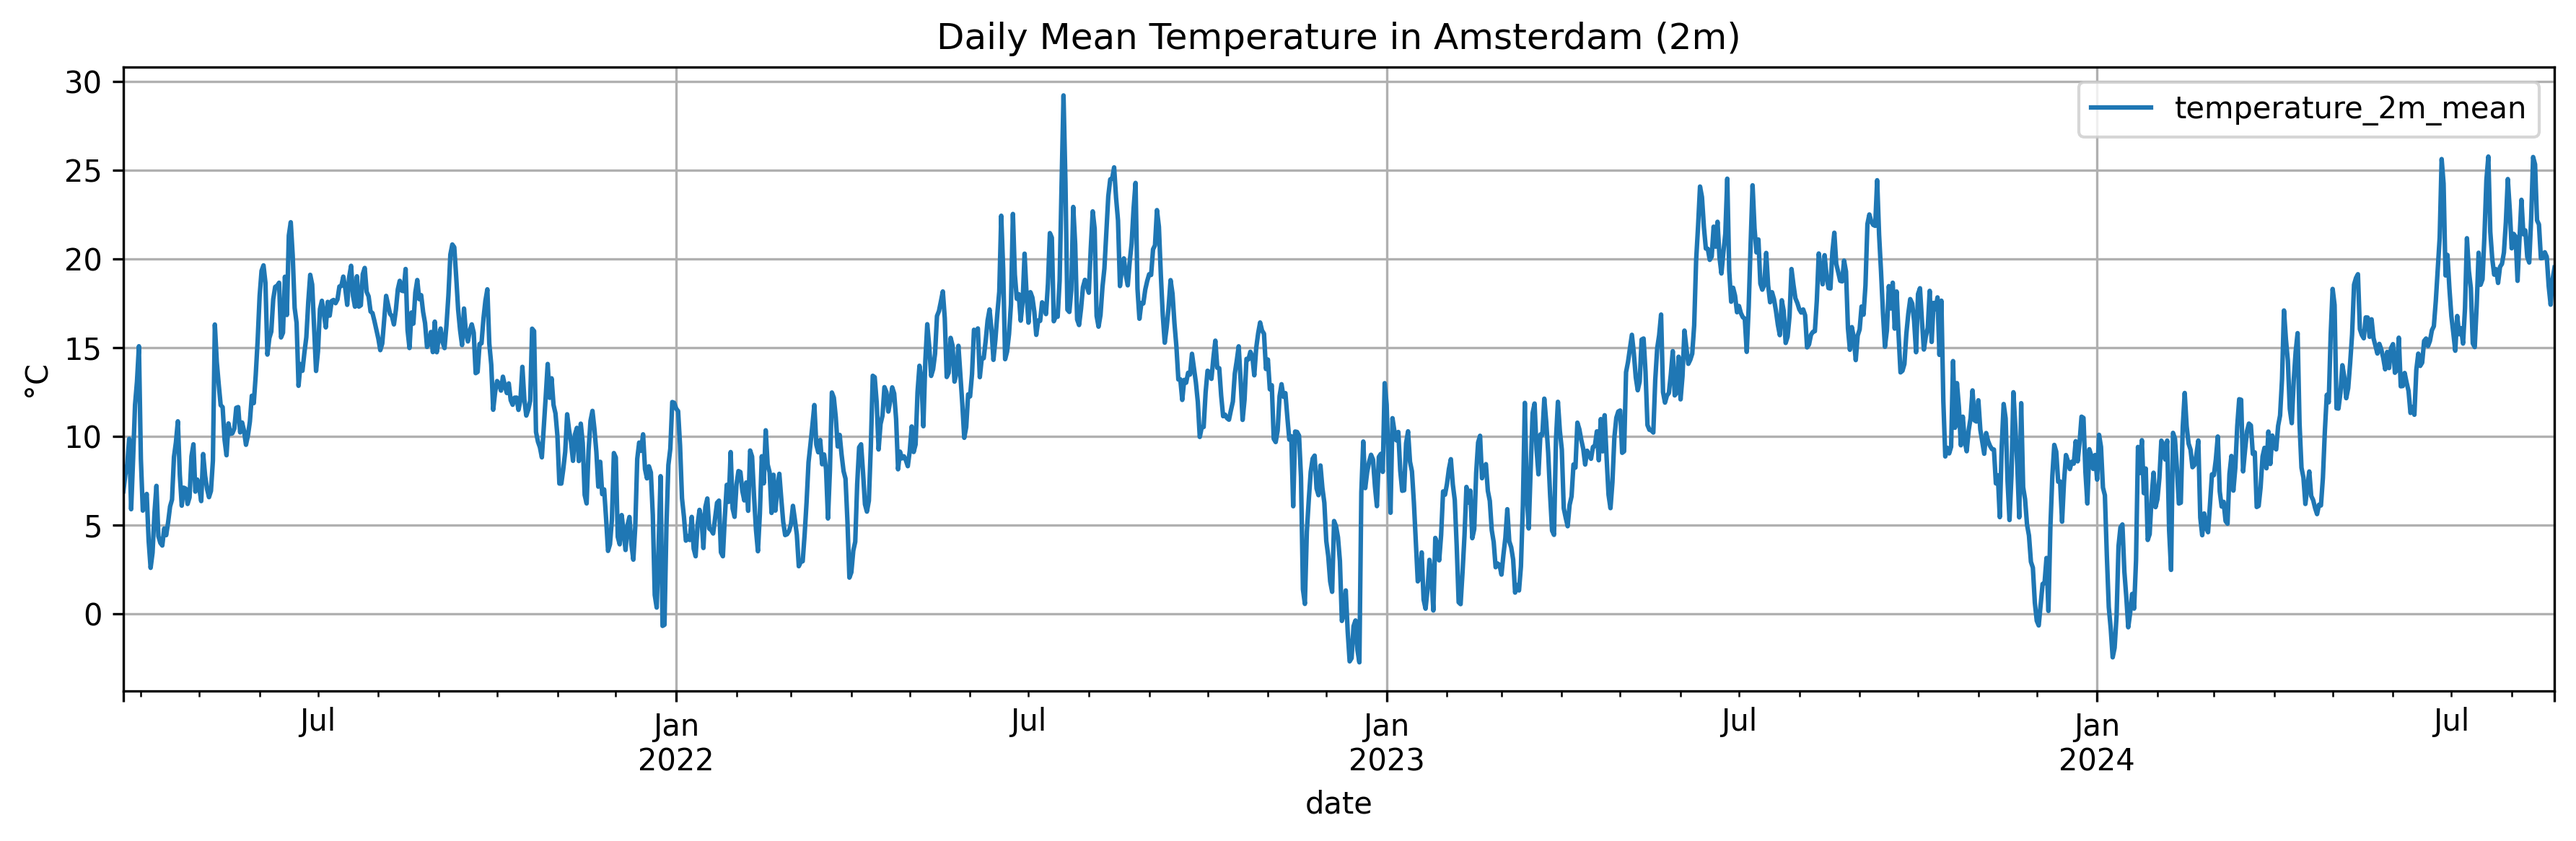
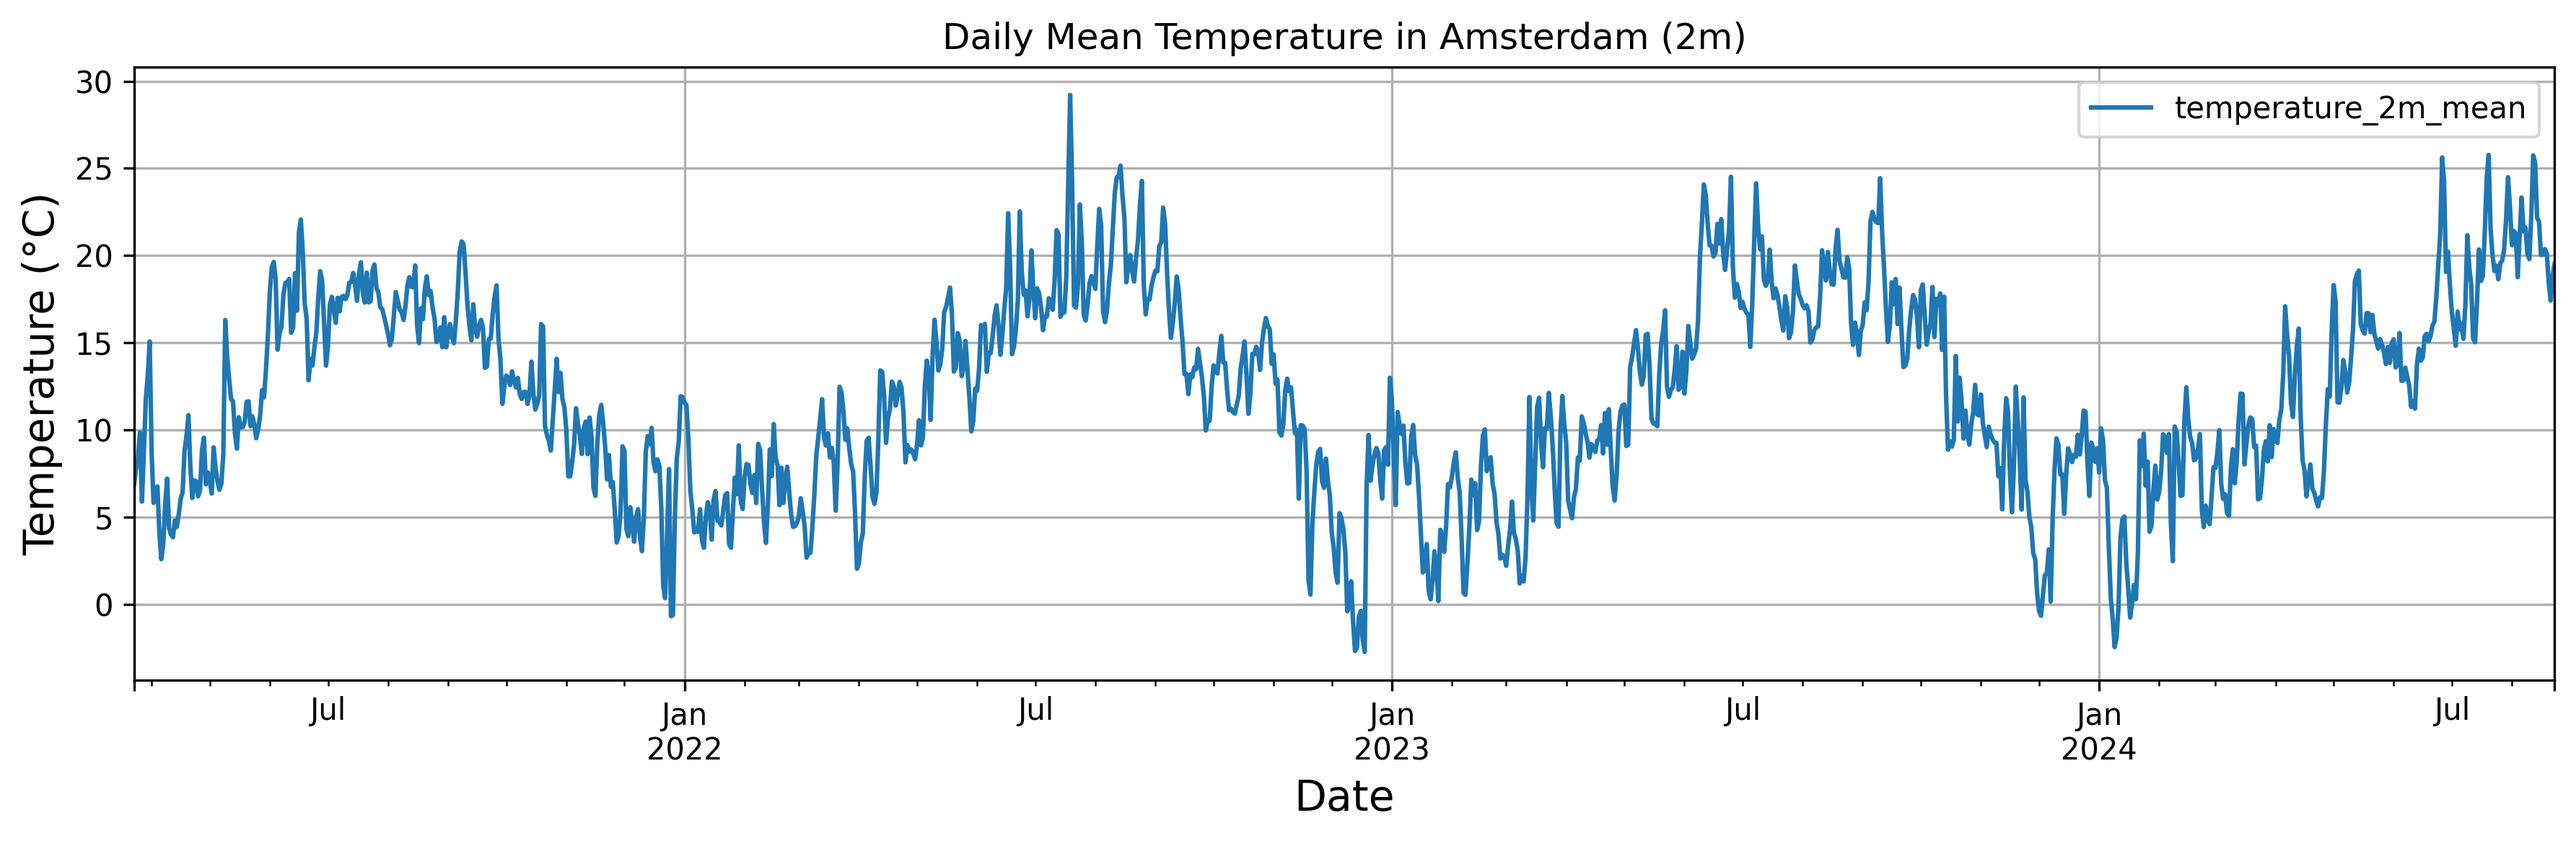
add task 3 figs

diff --git a/assignment2/task3/P4_calculate_sigma_and_simulate_temp.py b/assignment2/task3/P4_calculate_sigma_and_simulate_temp.py
@@ -50,6 +50,54 @@ init_params = [1, 0] + [0.1]*(2*I)
 assert not np.isnan(y_data_clean).any(), "y_data contains NaNs"
 # 拟合 Fourier 模型
 params, _ = curve_fit(sigma_model, t_data_clean, y_data_clean, p0=init_params)
+print("=== sigma^2(t) 模型参数 ===")
+print("V:", params[0])
+print("U:", params[1])
+print("Fourier coefficients (sin):", params[2:2+I])
+print("Fourier coefficients (cos):", params[2+I:2+2*I])
+
+# ======step 2: 可视化 sigma^2(t) ======
+plt.figure(figsize=(12, 4))
+plt.plot(t_data, np.abs(residual_e), label='|$e_t$| (AR(1) Residuals)', alpha=0.4)
+plt.plot(t_data, sigma_data, label='Smoothed $\sigma(t)$ (15-day MA)', linewidth=2)
+plt.xlabel("Time Index", fontsize=14)
+plt.ylabel("Magnitude", fontsize=14)
+plt.title("Smoothed Estimation of $\sigma(t)$ from AR(1) Residuals", fontsize=16)
+plt.legend()
+plt.grid(True)
+plt.tight_layout()
+plt.savefig("figs/sigma_smoothing.png", dpi=300, bbox_inches="tight")
+plt.show()
+plt.close()
+
+# 预测 sigma_model 拟合值
+sigma_fitted = sigma_model(t_data_clean, *params)
+
+plt.figure(figsize=(12, 4))
+plt.plot(t_data_clean, y_data_clean, label='Smoothed $\sigma(t)$ (Data)', color='blue')
+plt.plot(t_data_clean, sigma_fitted, label='Fitted $\sigma(t)$ (Fourier)', color='red', linestyle='--')
+plt.xlabel("Time Index", fontsize=14)
+plt.ylabel("Volatility", fontsize=14)
+plt.title("Fourier Fit of $\sigma(t)$", fontsize=16)
+plt.legend()
+plt.grid(True)
+plt.tight_layout()
+plt.savefig("figs/sigma_fitted.png", dpi=300, bbox_inches="tight")
+plt.show()
+plt.close()
+
+plt.figure(figsize=(12, 4))
+plt.plot(t_data, e2_series, label='$e_t^2$', alpha=0.4)
+plt.plot(t_data, sigma_data**2, label='Rolling Estimate of $\sigma^2(t)$', linewidth=2)
+plt.xlabel("Time Index")
+plt.ylabel("Variance")
+plt.title("Raw $e_t^2$ vs Smoothed $\sigma^2(t)$")
+plt.legend()
+plt.grid(True)
+plt.tight_layout()
+plt.savefig("figs/sigma_squared_estimation.png", dpi=300, bbox_inches="tight")
+plt.show()
+plt.close()
 
 # 生成解析函数
 def sigma(t):
@@ -100,21 +148,23 @@ simulated_df_paths.to_csv('amsterdam_daily_temperature_simulated_paths.csv')
 plt.figure(figsize=(12, 6))
 for i in range(n_paths):
     plt.plot(daily_df.index, T_paths[i], lw=0.7, alpha=0.6)
-plt.title("Simulated Temperature Paths (Monte Carlo)")
-plt.xlabel("Date")
-plt.ylabel("Temperature (°C)")
+plt.title("Simulated Temperature Paths (Monte Carlo)", fontsize=16)
+plt.xlabel("Date", fontsize=14)
+plt.ylabel("Temperature (°C)", fontsize=14)
 plt.grid(True)
 plt.tight_layout()
+plt.savefig("figs/simulated_temperature_paths.png", dpi=300, bbox_inches="tight")
 plt.show()
 plt.close()
 
-# ===== 对比实际和模拟路径 =====
-plt.figure(figsize=(12, 4))
-plt.plot(daily_df.index, daily_df['temperature_2m_mean'], label='Observed Temp', alpha=0.5)
-plt.plot(simulated_df.index, simulated_df['T_sim'], label='Simulated Temp', linestyle='--')
-plt.title('Simulated Temperature Path')
-plt.xlabel('Date')
-plt.ylabel('Temperature (°C)')
-plt.legend()
-plt.grid(True)
-plt.show()
+# # ===== 对比实际和模拟路径 =====
+# plt.figure(figsize=(12, 4))
+# plt.plot(daily_df.index, daily_df['temperature_2m_mean'], label='Observed Temp', alpha=0.5)
+# plt.plot(simulated_df.index, simulated_df['T_sim'], label='Simulated Temp', linestyle='--')
+# plt.title('Simulated Temperature Path', fontsize=16)
+# plt.xlabel('Date', fontsize=14)
+# plt.ylabel('Temperature (°C)', fontsize=14)
+# plt.legend()
+# plt.savefig('figs/simulated_temperature_path.png', dpi=300, bbox_inches='tight')
+# plt.grid(True)
+# plt.show()

diff --git a/assignment2/task3/P3_deterministic_temp_and_residual_AR.py b/assignment2/task3/P3_deterministic_temp_and_residual_AR.py
@@ -37,16 +37,23 @@ phi_deg = np.degrees(phi)
 plt.figure(figsize=(12, 4))
 plt.plot(daily_df.index, y, label='Observed Temp')
 plt.plot(daily_df.index, daily_df['model'], label='Fitted $\mu(t)$', linestyle='--')
+plt.xlabel('Date', fontsize=14)
+plt.ylabel('Temperature (°C)', fontsize=14)
 plt.legend()
-plt.title('Temperature vs Fitted Seasonal Model')
+plt.title('Temperature vs Fitted Seasonal Model', fontsize=16)
 plt.grid(True)
 plt.savefig('figs/deterministic_temp_model.png', dpi=300, bbox_inches='tight')
 plt.show()
 plt.close()
 
-# plot the residuals
+# plot the residuals (T_hat)
 plt.figure(figsize=(12, 4))
-plt.plot(daily_df.index, daily_df['residuals'], label='Residuals', color='orange')
+plt.plot(daily_df.index, daily_df['residuals'], label='$\hat{T}_t$', color='orange')
+plt.xlabel('Date', fontsize=14)
+plt.ylabel('Value', fontsize=14)
+plt.title('Detrended Temperature Series $\hat{T}_t$', fontsize=16)
+plt.legend()
+plt.grid(True)
 plt.savefig('figs/deterministic_temp_residuals.png', dpi=300, bbox_inches='tight')
 plt.show()
 plt.close()
@@ -88,25 +95,29 @@ model_ar1 = AutoReg(residuals, lags=1, old_names=False, trend='n').fit()
 model_ar1.resid.to_csv('amsterdam_daily_temperature_AR1_residuals.csv')
 print("\nAR(1) 模型系数:")
 print(model_ar1.params)
-plt.figure(figsize=(12, 4))
-plt.plot(daily_df.index[1:], model_ar1.resid, label='AR(1) Residuals', color='red')
-plt.title('AR(1) Residuals')
-plt.xlabel('Date')
-plt.ylabel('Residuals')
-plt.legend()
-plt.grid(True)
-plt.savefig('figs/deterministic_temp_AR1_residuals.png', dpi=300, bbox_inches='tight')
-plt.show()
-plt.close()
 
 gamma = model_ar1.params[0]  # AR(1) 系数
 kappa = 1 - gamma  # 计算 κ
 
 plt.figure(figsize=(12, 4))
-plt.plot(daily_df.index, daily_df['residuals'], label='Residuals', color='orange')
+plt.plot(daily_df.index, daily_df['residuals'], label='$\hat{T}_t$', color='orange')
 plt.plot(daily_df.index[1:], model_ar1.fittedvalues, label='Fitted AR(1)', linestyle='--')
+plt.xlabel('Date', fontsize=14)
+plt.ylabel('Residuals', fontsize=14)
+plt.title('$\hat{T}_t$ vs Fitted AR(1)', fontsize=16)
 plt.legend()
-plt.show()
 plt.savefig('figs/deterministic_temp_AR1.png', dpi=300, bbox_inches='tight')
+plt.show()
 plt.close()
 print(f"κ (AR(1) 系数) = {kappa:.3f}")
+
+plt.figure(figsize=(12, 4))
+plt.plot(daily_df.index[1:], model_ar1.resid, label='AR(1) Residuals', color='red')
+plt.title('AR(1) Residuals', fontsize=16)
+plt.xlabel('Date', fontsize=14)
+plt.ylabel('Residuals', fontsize=14)
+plt.legend()
+plt.grid(True)
+plt.savefig('figs/deterministic_temp_AR1_residuals.png', dpi=300, bbox_inches='tight')
+plt.show()
+plt.close()

diff --git a/assignment2/task3/P2_EDA.py b/assignment2/task3/P2_EDA.py
@@ -23,17 +23,21 @@ plt.figure(figsize=(12, 5))
 plt.plot(daily_df['temperature_2m_mean'], label='Original')
 plt.plot(daily_df['rolling_mean_30'], label='Rolling Mean (30 days)', linestyle='--')
 plt.plot(daily_df['rolling_var_30'], label='Rolling Variance (30 days)', linestyle=':')
-plt.title("Temperature Series with Rolling Mean and Variance")
+plt.xlabel("Date", fontsize=14)
+plt.ylabel("Temperature (°C)", fontsize=14)
+plt.title("Temperature Series with Rolling Mean and Variance", fontsize=14)
 plt.legend()
 plt.grid(True)
 plt.tight_layout()
+plt.savefig("figs/rolling_mean_variance.png", dpi=300, bbox_inches="tight")
 plt.show()
 plt.close()
 
 # 1.4 绘图代码（趋势+季节+残差分解）
 decompose_result.plot()
-plt.suptitle("Seasonal Decomposition", fontsize=14)
+plt.suptitle("Seasonal Decomposition", fontsize=16)
 plt.tight_layout()
+plt.savefig("figs/seasonal_decomposition.png", dpi=300, bbox_inches="tight")
 plt.show()
 plt.close()
 
@@ -41,19 +45,23 @@ plt.close()
 # 2.1 残差直方图
 plt.figure(figsize=(8, 6))
 plt.hist(daily_df['residual'].dropna(), bins=60)
-plt.title("Residual Distribution")
-plt.xlabel("Residual")
-plt.ylabel("Frequency")
+plt.title("Residual Distribution", fontsize=16)
+plt.xlabel("Residual", fontsize=14)
+plt.ylabel("Frequency", fontsize=14)
 plt.grid(True)
 plt.tight_layout()
+plt.savefig("figs/residual_distribution.png", dpi=300, bbox_inches="tight")
 plt.show()
 plt.close()
 
 plt.figure(figsize=(8, 6))
 stats.probplot(daily_df['residual'].dropna(), dist="norm", plot=plt)
-plt.title("Q-Q Plot of Residuals")
+plt.title("Q-Q Plot of Residuals", fontsize=16)
+plt.xlabel("Theoretical Quantiles", fontsize=14)
+plt.ylabel("Sample Quantiles", fontsize=14)
 plt.grid(True)
 plt.tight_layout()
+plt.savefig("figs/residual_qq_plot.png", dpi=300, bbox_inches="tight")
 plt.show()
 plt.close()
 
@@ -62,6 +70,7 @@ fig, ax = plt.subplots(2, 1, figsize=(10, 6))
 plot_acf(daily_df['residual'].dropna(), ax=ax[0], lags=50)
 plot_pacf(daily_df['residual'].dropna(), ax=ax[1], lags=50)
 plt.tight_layout()
+plt.savefig("figs/residual_acf_pacf.png", dpi=300, bbox_inches="tight")
 plt.show()
 plt.close()
 

diff --git a/assignment2/task3/P4_call_option_surface.py b/assignment2/task3/P4_call_option_surface.py
@@ -71,12 +71,13 @@ def plot_pricing_surface(surface_df, title="Option Pricing Surface", zlabel="Pri
     ax = fig.add_subplot(111, projection='3d')
     ax.plot_trisurf(X, Y, Z, cmap="viridis", edgecolor='none')
 
-    ax.set_ylabel("Strike K")
-    ax.set_zlabel(zlabel)
-    ax.set_title(title)
+    ax.set_ylabel("Strike K", fontsize=14)
+    ax.set_zlabel(zlabel, fontsize=12)
+    ax.set_title(title, fontsize=16)
 
     ax.xaxis.set_major_formatter(mdates.DateFormatter('%Y-%m-%d'))
     fig.autofmt_xdate()
+    fig.savefig(f"figs/{title.replace(' ', '_').lower()}.png", dpi=300, bbox_inches="tight")
     plt.show()
 
 # === Call Option ===

diff --git a/assignment2/task3/P1_data_retrieve.py b/assignment2/task3/P1_data_retrieve.py
@@ -49,7 +49,8 @@ df.to_csv("amsterdam_daily_temperature.csv")
 
 # Optional: quick plot
 df.plot(title="Daily Mean Temperature in Amsterdam (2m)", figsize=(12, 4))
-plt.ylabel("°C")
+plt.ylabel("Temperature (°C)", fontsize=14)
+plt.xlabel("Date", fontsize=14)
 plt.grid(True)
 plt.tight_layout()
 plt.savefig("figs/amsterdam_daily_temperature.png", dpi=300, bbox_inches="tight")
